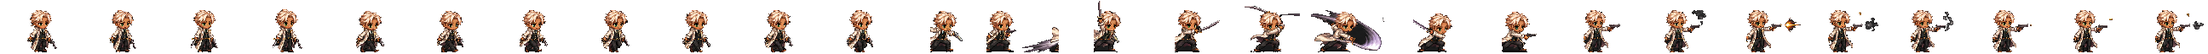
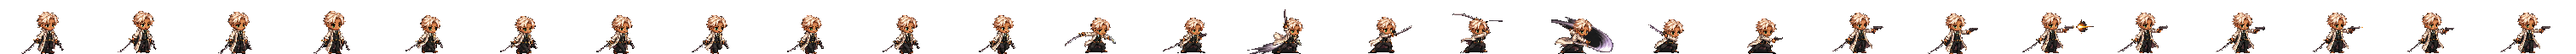
fix(sprite): 캐릭터 시트 프레임 분리를 연결 요소 기반으로 교체
카타나가 몸통 중심에서 왼쪽으로 ~80px 뻗어 있는데 프레임 간격은 123~195px로
들쭉날쭉하다. 중점 세로선으로 자르면 간격이 좁은 프레임에서 자기 칼날이 잘리고
그 조각이 옆 셀에 이물질로 들어갔다. (검이 짧게 보이거나 칼집이 떠다니던 원인)

- 행 전체를 한 번에 배경 제거 후 8방향 연결 요소 라벨링
- 몸통 위치는 피부/금발/부츠의 따뜻한 색 열 밀도로 검출 (칼날·궤적은 무채색)
- 분리된 요소는 본체까지의 실제 최근접 거리(BFS 거리 지도)로 귀속
  — bbox 간격은 긴 칼 때문에 총구 화염을 옆 프레임에 붙였다
- 궤적으로 두 캐릭터가 이어진 덩어리는 픽셀 단위로 분할
- 시트 배경용 검은 연기·행 제목 글자·동떨어진 파편 제거
- 프레임마다 다르게 잡히던 스케일을 행 공통 스케일로 통일 (키 흔들림 제거)
- 셀 폭 96 -> 112 (칼 전체 수용), 셀 밖 넘침은 잘라내 옆 셀 침범 방지

새 아트는 필요 없고 자르는 방식만 고친 것이라 원본 일러스트는 그대로 쓴다.
추출 스크립트는 tools/extract_character_sheet.py 로 보존.

Claude-Session: https://claude.ai/code/session_01JQrqj8VwghESuWCrw9YgFX

Changed region(s): [[0.0, 0.1875, 1.0, 1.0], [0.6562, 0.9688, 0.6875, 1.0], [0.5625, 0.125, 0.5938, 0.1562]]

diff --git a/src/entities/CharacterSprite.ts b/src/entities/CharacterSprite.ts
@@ -3,7 +3,9 @@ import * as THREE from 'three'
 /**
  * 2D 주인공 빌보드 — SD 총검사 아트 시트(public/gunblader.png) 사용.
  *
- * 아트 시트: 96x64 셀 × 27프레임 스트립 (오른쪽 기준)
+ * 아트 시트: 112x64 셀 × 27프레임 스트립 (오른쪽 기준)
+ *   셀 폭은 카타나가 몸통 왼쪽으로 길게 뻗는 것을 담기 위한 값 — 캐릭터는 셀 중앙,
+ *   발끝이 셀 바닥에 오도록 정렬되어 있다.
  *   대기 0-3 / 걷기 4-10 / 검 공격 11-18 / 총 공격 19-26
  * 로드 실패 시(또는 로드 전) 절차 생성 픽셀 시트(9프레임)로 폴백.
  * 절차 시트는 무기별 드로잉을 지원하므로 폴백 상태에선 무기 교체가 반영된다.
@@ -25,7 +27,7 @@ const PROC_SPEC: SheetSpec = {
 }
 const ART_SPEC: SheetSpec = {
   n: 27,
-  aspect: 96 / 64,
+  aspect: 112 / 64,
   anim: {
     idle: [0, 1, 2, 3],
     walk: [4, 5, 6, 7, 8, 9, 10],

diff --git a/tools/extract_character_sheet.py b/tools/extract_character_sheet.py
@@ -1,0 +1,291 @@
+#!/usr/bin/env python3
+"""원본 SD 모션 시트 → public/gunblader.png (112x64 셀 x 27프레임) 추출기.
+
+SRC 는 작업 당시 업로드된 원본 일러스트 경로다. 시트를 다시 뽑을 일이 있으면
+원본 PNG 경로와 ROWS 의 행 y구간만 바꿔서 실행하면 된다.
+
+세로선 분할 대신 '연결 요소 소유권'으로 프레임을 나눈다.
+
+기존 방식의 문제:
+  프레임 간격(pitch)이 123~195px로 들쭉날쭉한데 카타나는 몸통 중심에서 왼쪽으로
+  ~80px 뻗어 있다. 중점 세로선으로 자르면 간격이 좁은 프레임에서는 자기 칼끝이
+  잘려나가고, 그 잘린 조각이 옆 프레임 셀에 이물질로 들어간다.
+
+v5 방식:
+  1) 행 전체를 한 번에 배경 제거 → 8방향 연결 요소 라벨링
+  2) 몸통 위치는 '따뜻한 색(피부·금발·부츠)' 열 밀도로 검출 (칼날·궤적은 무채색)
+  3) 각 연결 요소를 가장 가까운 몸통에 귀속시킴 (칼·궤적은 몸에 붙어 있거나 인접)
+  4) 프레임별로 자기 요소만 합성 → 칼이 온전히 살고 이웃 조각이 섞이지 않음
+"""
+from PIL import Image
+from collections import deque
+
+SRC = '/root/.claude/uploads/d91fdec0-0ddc-5c0e-b903-596399db3e60/0fe74923-1000014102.png'
+OUT = '/home/user/-/public/gunblader.png'
+CELL_W, CELL_H = 112, 64
+TARGET_BODY_H = 50    # 셀 안 캐릭터(머리~발) 높이
+TIGHT, LOOSE, EXPAND = 12, 42, 2
+DARK_LUMA = 88        # 평균 휘도가 이보다 낮은 분리 덩어리는 시트용 검은 연기로 보고 제거
+WARM_THR = 8          # 열당 따뜻한 픽셀 수 (몸통 검출)
+WARM_MIN_W = 30       # 총구 화염 같은 작은 따뜻한 덩어리 배제
+
+im = Image.open(SRC).convert('RGB')
+W, H = im.size
+px = im.load()
+bg = px[2, 2]
+
+def dist(p):
+    return abs(p[0] - bg[0]) + abs(p[1] - bg[1]) + abs(p[2] - bg[2])
+
+# 행 제목 텍스트 제거
+for x in range(0, 385):
+    for y in range(453, 478):
+        px[x, y] = bg
+
+ROWS = [('idle', 87, 223, 4), ('walk', 274, 394, 7),
+        ('sword', 453, 591, 8), ('gun', 676, 802, 8)]
+
+
+def body_spans(y0, y1):
+    """피부/금발/부츠의 따뜻한 색 밀도로 몸통 x구간을 찾는다."""
+    warm = [sum(1 for y in range(y0, y1)
+                if px[x, y][0] - px[x, y][2] > 45 and px[x, y][0] > 110)
+            for x in range(W)]
+    cl, s = [], None
+    for x in range(W):
+        if warm[x] >= WARM_THR and s is None:
+            s = x
+        elif warm[x] < WARM_THR and s is not None:
+            if x - s >= 5:
+                cl.append([s, x])
+            s = None
+    if s is not None:
+        cl.append([s, W])
+    merged = []
+    for c in cl:
+        if merged and c[0] - merged[-1][1] <= 20:
+            merged[-1][1] = c[1]
+        else:
+            merged.append(c)
+    return [c for c in merged if c[1] - c[0] >= WARM_MIN_W]
+
+
+def row_alpha(y0, y1):
+    """행 전체를 잘라 배경을 투명화한 RGBA 이미지 (1px 여백 포함)."""
+    crop = Image.new('RGB', (W + 2, y1 - y0 + 2), bg)
+    crop.paste(im.crop((0, y0, W, y1)), (1, 1))
+    crop = crop.convert('RGBA')
+    w, h = crop.size
+    cp = crop.load()
+
+    out = [[False] * w for _ in range(h)]
+    q = deque()
+
+    def seed(x, y):
+        if not out[y][x] and dist(cp[x, y][:3]) <= TIGHT:
+            out[y][x] = True
+            q.append((x, y))
+
+    for x in range(w):
+        seed(x, 0)
+        seed(x, h - 1)
+    for y in range(h):
+        seed(0, y)
+        seed(w - 1, y)
+    while q:
+        x, y = q.popleft()
+        for nx, ny in ((x + 1, y), (x - 1, y), (x, y + 1), (x, y - 1)):
+            if 0 <= nx < w and 0 <= ny < h and not out[ny][nx] and dist(cp[nx, ny][:3]) <= TIGHT:
+                out[ny][nx] = True
+                q.append((nx, ny))
+    for _ in range(EXPAND):
+        add = []
+        for y in range(h):
+            for x in range(w):
+                if out[y][x] or dist(cp[x, y][:3]) > LOOSE:
+                    continue
+                if any(0 <= nx < w and 0 <= ny < h and out[ny][nx]
+                       for nx, ny in ((x + 1, y), (x - 1, y), (x, y + 1), (x, y - 1))):
+                    add.append((x, y))
+        if not add:
+            break
+        for x, y in add:
+            out[y][x] = True
+    for y in range(h):
+        for x in range(w):
+            if out[y][x]:
+                cp[x, y] = (0, 0, 0, 0)
+    return crop
+
+
+def components(img):
+    """8방향 연결 요소 목록 (각 요소는 픽셀 좌표 리스트)."""
+    w, h = img.size
+    cp = img.load()
+    seen = [[False] * w for _ in range(h)]
+    comps = []
+    for sy in range(h):
+        for sx in range(w):
+            if seen[sy][sx] or cp[sx, sy][3] == 0:
+                continue
+            stack = [(sx, sy)]
+            seen[sy][sx] = True
+            pix = []
+            while stack:
+                x, y = stack.pop()
+                pix.append((x, y))
+                for nx in range(x - 1, x + 2):
+                    for ny in range(y - 1, y + 2):
+                        if 0 <= nx < w and 0 <= ny < h and not seen[ny][nx] and cp[nx, ny][3] > 0:
+                            seen[ny][nx] = True
+                            stack.append((nx, ny))
+            comps.append(pix)
+    return comps
+
+
+def bbox(pix):
+    xs = [p[0] for p in pix]
+    ys = [p[1] for p in pix]
+    return min(xs), min(ys), max(xs), max(ys)
+
+
+def gap(a, b):
+    """두 bbox 사이 간격 (겹치면 0)."""
+    dx = max(0, a[0] - b[2], b[0] - a[2])
+    dy = max(0, a[1] - b[3], b[1] - a[3])
+    return max(dx, dy)
+
+
+frames, counts = [], []
+stats = {'dark': 0, 'orphan': 0}
+
+for name, y0, y1, n in ROWS:
+    spans = body_spans(y0, y1)
+    if len(spans) != n:
+        print(f'  ! {name}: 몸통 {len(spans)}개 (기대 {n})')
+    # row_alpha는 1px 여백을 주므로 원본 x → 잘린 이미지 x 는 +1
+    spans = [[s[0] + 1, s[1] + 1] for s in spans]
+    img = row_alpha(y0, y1)
+    comps = components(img)
+    cp = img.load()
+
+    # 1) 각 몸통에 '본체' 요소 배정: 몸통 구간과 겹치는 가장 큰 요소
+    boxes = [bbox(c) for c in comps]
+    main_of = []
+    for bi, sp in enumerate(spans):
+        best, bestn = None, 0
+        for ci, c in enumerate(comps):
+            b = boxes[ci]
+            ov = min(b[2], sp[1]) - max(b[0], sp[0])
+            if ov > 0 and len(c) > bestn:
+                best, bestn = ci, len(c)
+        main_of.append(best)
+
+    # 1b) 두 캐릭터가 궤적으로 이어져 한 덩어리가 된 경우 → 픽셀 단위로 나눈다
+    own_pix = [[] for _ in spans]
+    ctr = [(s[0] + s[1]) / 2 for s in spans]
+    claimed = set()
+    for ci in set(m for m in main_of if m is not None):
+        bs = [bi for bi, m in enumerate(main_of) if m == ci]
+        claimed.add(ci)
+        if len(bs) == 1:
+            own_pix[bs[0]] = list(comps[ci])
+        else:
+            print(f'  · {name}: 프레임 {bs} 가 한 덩어리 → 픽셀 분할')
+            for p in comps[ci]:
+                bi = min(bs, key=lambda b: abs(p[0] - ctr[b]))
+                own_pix[bi].append(p)
+
+    # 2) 본체까지의 '실제 최근접 거리' 지도 (bbox 간격은 긴 칼 때문에 오판한다)
+    w, h = img.size
+    near_id = [[-1] * w for _ in range(h)]
+    near_d = [[10 ** 9] * w for _ in range(h)]
+    q = deque()
+    for bi, pxs in enumerate(own_pix):
+        for x, y in pxs:
+            near_id[y][x] = bi
+            near_d[y][x] = 0
+            q.append((x, y))
+    while q:
+        x, y = q.popleft()
+        d = near_d[y][x] + 1
+        for nx in range(x - 1, x + 2):
+            for ny in range(y - 1, y + 2):
+                if 0 <= nx < w and 0 <= ny < h and near_d[ny][nx] > d:
+                    near_d[ny][nx] = d
+                    near_id[ny][nx] = near_id[y][x]
+                    q.append((nx, ny))
+
+    # 3) 남은 요소는 가장 가까운 본체에 귀속 (요소의 최근접 지점 기준)
+    for ci, c in enumerate(comps):
+        if ci in claimed:
+            continue
+        lum = [0.299 * cp[x, y][0] + 0.587 * cp[x, y][1] + 0.114 * cp[x, y][2] for x, y in c]
+        best, bestd = None, 10 ** 9
+        for x, y in c:
+            if near_d[y][x] < bestd:
+                bestd, best = near_d[y][x], near_id[y][x]
+        # 시트 배경용 검은 연기 / 행 제목 글자 / 본체와 동떨어진 파편은 버린다
+        if (sum(lum) / len(lum) < DARK_LUMA or bestd > 30
+                or (len(c) < 60 and bestd > 8) or best is None):
+            stats['dark'] += 1
+            continue
+        own_pix[best].extend(c)
+
+    # 3) 프레임별 합성
+    row = []
+    for bi, sp in enumerate(spans):
+        pix = own_pix[bi]
+        if not pix:
+            print(f'  ! {name}[{bi}] 픽셀 없음')
+            continue
+        x0, yy0, x1, yy1 = bbox(pix)
+        cell = Image.new('RGBA', (x1 - x0 + 1, yy1 - yy0 + 1), (0, 0, 0, 0))
+        cc = cell.load()
+        for x, y in pix:
+            cc[x - x0, y - yy0] = cp[x, y]
+
+        # 몸통(머리~발) 높이·중심: 따뜻한 색 구간 안의 내용 기준
+        by0, by1 = 10 ** 9, -1
+        for x, y in pix:
+            if sp[0] <= x < sp[1]:
+                by0 = min(by0, y)
+                by1 = max(by1, y)
+        # 스케일은 나중에 행 전체 공통으로 적용 (프레임마다 키가 변하면 안 됨)
+        row.append((cell, (sp[0] + sp[1]) / 2 - x0, by1 - yy0, by1 - by0 + 1))
+    frames.append(row)
+    counts.append((name, len(row)))
+    hs = [r[3] for r in row]
+    print(f'{name}: {len(row)}프레임, 몸통높이 {min(hs)}~{max(hs)}px')
+
+# 전 프레임 공통 스케일 — 기준은 대기 자세(가장 곧게 선 포즈)의 평균 키
+ref = sum(r[3] for r in frames[0]) / len(frames[0])
+SCALE = TARGET_BODY_H / ref
+print(f'기준 키 {ref:.0f}px → 공통 scale {SCALE:.3f}')
+
+total = sum(len(r) for r in frames)
+strip = Image.new('RGBA', (CELL_W * total, CELL_H), (0, 0, 0, 0))
+i = 0
+clipped = 0
+for row in frames:
+    for raw, rbcx, rfy, _bh in row:
+        cell = raw.resize((max(1, round(raw.size[0] * SCALE)), max(1, round(raw.size[1] * SCALE))), Image.NEAREST)
+        bcx, fy = rbcx * SCALE, rfy * SCALE
+        # 셀 밖으로 넘치는 부분은 잘라낸다 (옆 셀 침범 방지)
+        one = Image.new('RGBA', (CELL_W, CELL_H), (0, 0, 0, 0))
+        ox = round(CELL_W / 2 - bcx)
+        oy = round(CELL_H - 1 - fy)
+        one.alpha_composite(cell, dest=(max(0, ox), max(0, oy)),
+                            source=(max(0, -ox), max(0, -oy)))
+        if ox < 0 or oy < 0 or ox + cell.size[0] > CELL_W or oy + cell.size[1] > CELL_H:
+            clipped += 1
+        strip.paste(one, (i * CELL_W, 0))
+        i += 1
+strip.save(OUT)
+print(f'저장: {OUT} ({strip.size[0]}x{strip.size[1]}, {total}프레임, 셀 {CELL_W}x{CELL_H})')
+print(f'  버린 덩어리 {stats["dark"]}개, 셀 밖 잘림 {clipped}프레임')
+idx = 0
+for name, n in counts:
+    print(f'  {name}={idx}..{idx + n - 1}', end='')
+    idx += n
+print()
